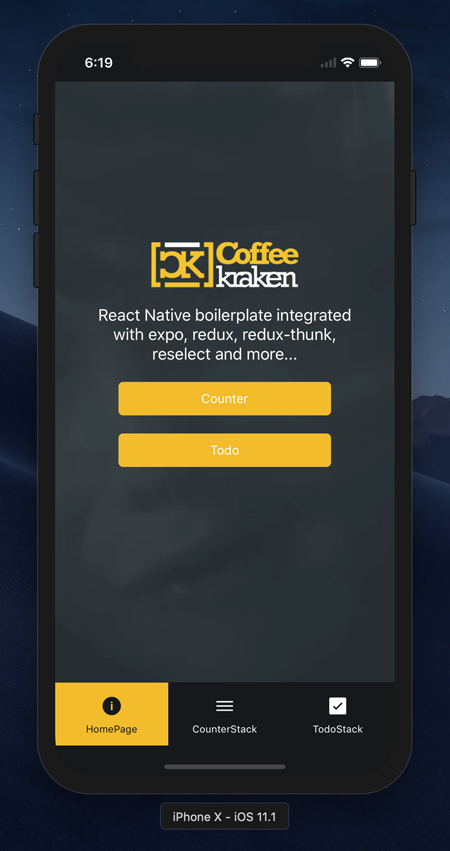
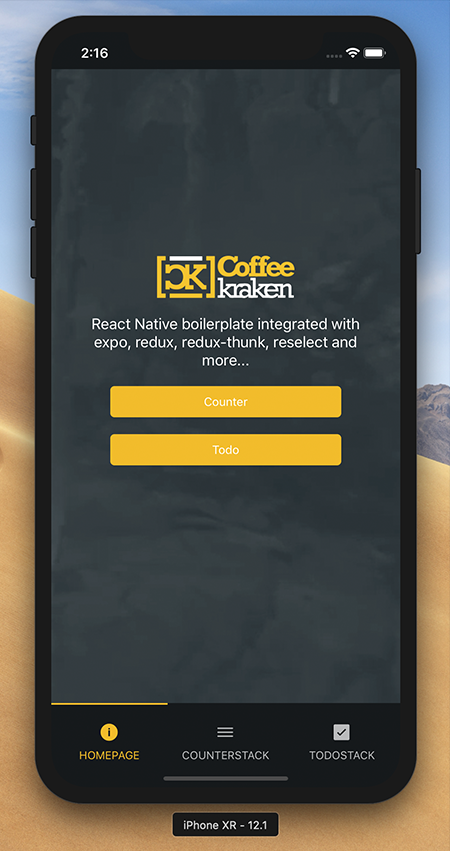
update navigation style

diff --git a/src/containers/App/index.js b/src/containers/App/index.js
@@ -3,6 +3,7 @@ import { StatusBar, View, StyleSheet } from 'react-native'
 import {
   createAppContainer,
   createBottomTabNavigator,
+  createMaterialTopTabNavigator,
   createStackNavigator
 } from 'react-navigation'
 import Ionicons from 'react-native-vector-icons/Ionicons'
@@ -41,7 +42,7 @@ const CounterStack = createStackNavigator(
     defaultNavigationOptions
   }
 )
-const AppNavigator = createBottomTabNavigator(
+const AppNavigator = createMaterialTopTabNavigator(
   {
     HomePage,
     CounterStack,
@@ -49,7 +50,8 @@ const AppNavigator = createBottomTabNavigator(
   },
   {
     initialRouteName: 'HomePage',
-
+    tabBarPosition: 'bottom',
+    lazy: true,
     defaultNavigationOptions: ({ navigation }) => ({
       // eslint-disable-next-line
       tabBarIcon: ({ horizontal, tintColor }) => {
@@ -73,19 +75,18 @@ const AppNavigator = createBottomTabNavigator(
     }),
     tabBarOptions: {
       style: {
-        height: 70,
+        height: 100,
         justifyContent: 'center',
         alignContent: 'center',
         backgroundColor: theme.colors.secondary
       },
-      labelStyle: {
-        position: 'relative',
-        top: -10
+      indicatorStyle: {
+        top: 0,
+        backgroundColor: theme.colors.primary
       },
-      activeTintColor: theme.colors.secondary,
-      inactiveTintColor: '#fff',
-      activeBackgroundColor: theme.colors.primary,
-      inactiveBackgroundColor: theme.colors.secondary
+      showIcon: true,
+      activeTintColor: theme.colors.primary,
+      inactiveTintColor: '#fff'
     }
   }
 )
